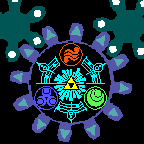
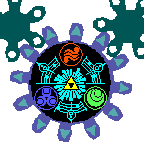
Changed background color

diff --git a/src/basalt.c b/src/basalt.c
@@ -280,8 +280,8 @@ void handle_tap(AccelAxisType axis, int32_t dir) {
 /* ===================================================================================================================== */
 
 void main_window_load(Window *window) {	
-	// Black background, 144 × 168 pixels, 176 PPI
-	window_set_background_color(window, GColorBlack);
+	// Background, 144 × 168 pixels, 176 PPI
+	window_set_background_color(window, GColorOxfordBlue);
 	
 	// Assign GFont
 	s_zelda_font = fonts_load_custom_font(resource_get_handle(RESOURCE_ID_FONT_ZELDA_16));
@@ -290,7 +290,8 @@ void main_window_load(Window *window) {
 	
 	// Gears layers
 	s_gears_layer = bitmap_layer_create(GRect(0, 0, 144, 144));
-	bitmap_layer_set_compositing_mode(s_gears_layer, GCompOpAssign);
+	bitmap_layer_set_background_color(s_gears_layer, GColorClear);
+	bitmap_layer_set_compositing_mode(s_gears_layer, GCompOpSet);
 	layer_add_child(window_get_root_layer(window), bitmap_layer_get_layer(s_gears_layer));
 	
 	s_gears_bitmap_0 = gbitmap_create_with_resource(RESOURCE_ID_IMAGE_GEARS_0);
@@ -341,6 +342,7 @@ void main_window_load(Window *window) {
 	// Hearts layers
 	s_heartsfill_layer = bitmap_layer_create(GRect(0, 168-20, 70, 20));
 	bitmap_layer_set_background_color(s_heartsfill_layer, GColorClear);
+	bitmap_layer_set_compositing_mode(s_heartsfill_layer, GCompOpSet);
 	s_heartsfill_bitmap = gbitmap_create_with_resource(RESOURCE_ID_IMAGE_HEARTS_FILL);
 	bitmap_layer_set_bitmap(s_heartsfill_layer, s_heartsfill_bitmap);
 	layer_add_child(window_get_root_layer(window), bitmap_layer_get_layer(s_heartsfill_layer));
@@ -355,6 +357,7 @@ void main_window_load(Window *window) {
 	// Charge layer
 	s_charge_layer = bitmap_layer_create(GRect(1, 168-20-15-18, 16, 16));
 	bitmap_layer_set_background_color(s_charge_layer, GColorClear);
+	bitmap_layer_set_compositing_mode(s_charge_layer, GCompOpSet);
 	s_charge_bitmap = gbitmap_create_with_resource(RESOURCE_ID_IMAGE_CHARGE);
 	bitmap_layer_set_bitmap(s_charge_layer, s_charge_bitmap);
 	layer_add_child(window_get_root_layer(window), bitmap_layer_get_layer(s_charge_layer));
@@ -384,6 +387,7 @@ void main_window_load(Window *window) {
 	// Rupee layer
 	s_rupee_layer = bitmap_layer_create(GRect(1, 168-20-15, 13, 13));
 	bitmap_layer_set_background_color(s_rupee_layer, GColorClear);
+	bitmap_layer_set_compositing_mode(s_rupee_layer, GCompOpSet);
 	s_rupee_bitmap = gbitmap_create_with_resource(RESOURCE_ID_IMAGE_RUPEE);
 	bitmap_layer_set_bitmap(s_rupee_layer, s_rupee_bitmap);
 	layer_add_child(window_get_root_layer(window), bitmap_layer_get_layer(s_rupee_layer));
